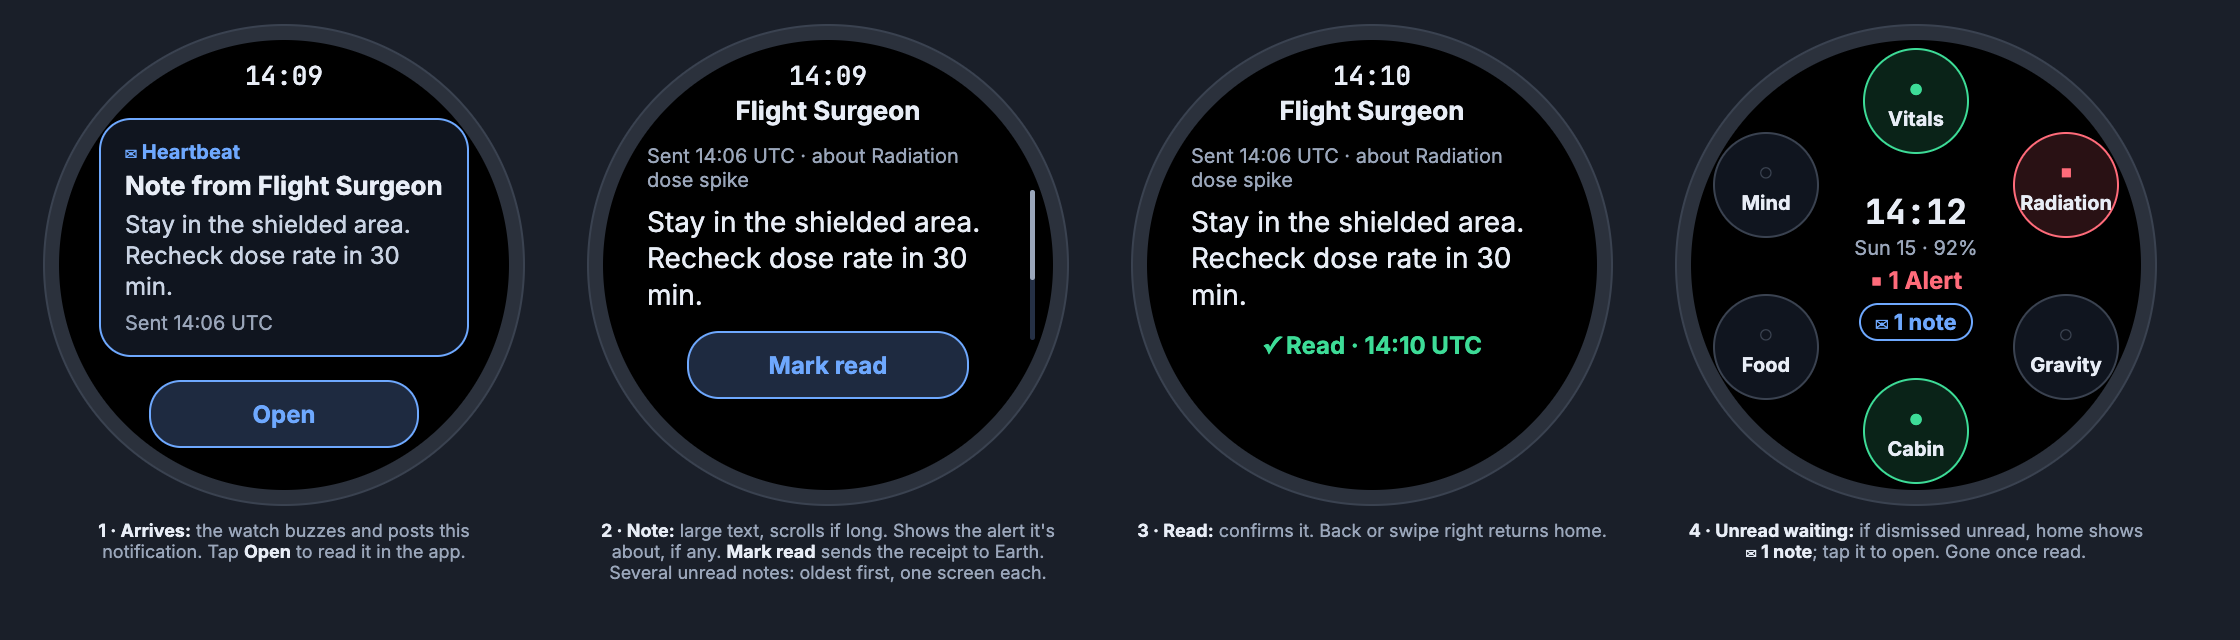
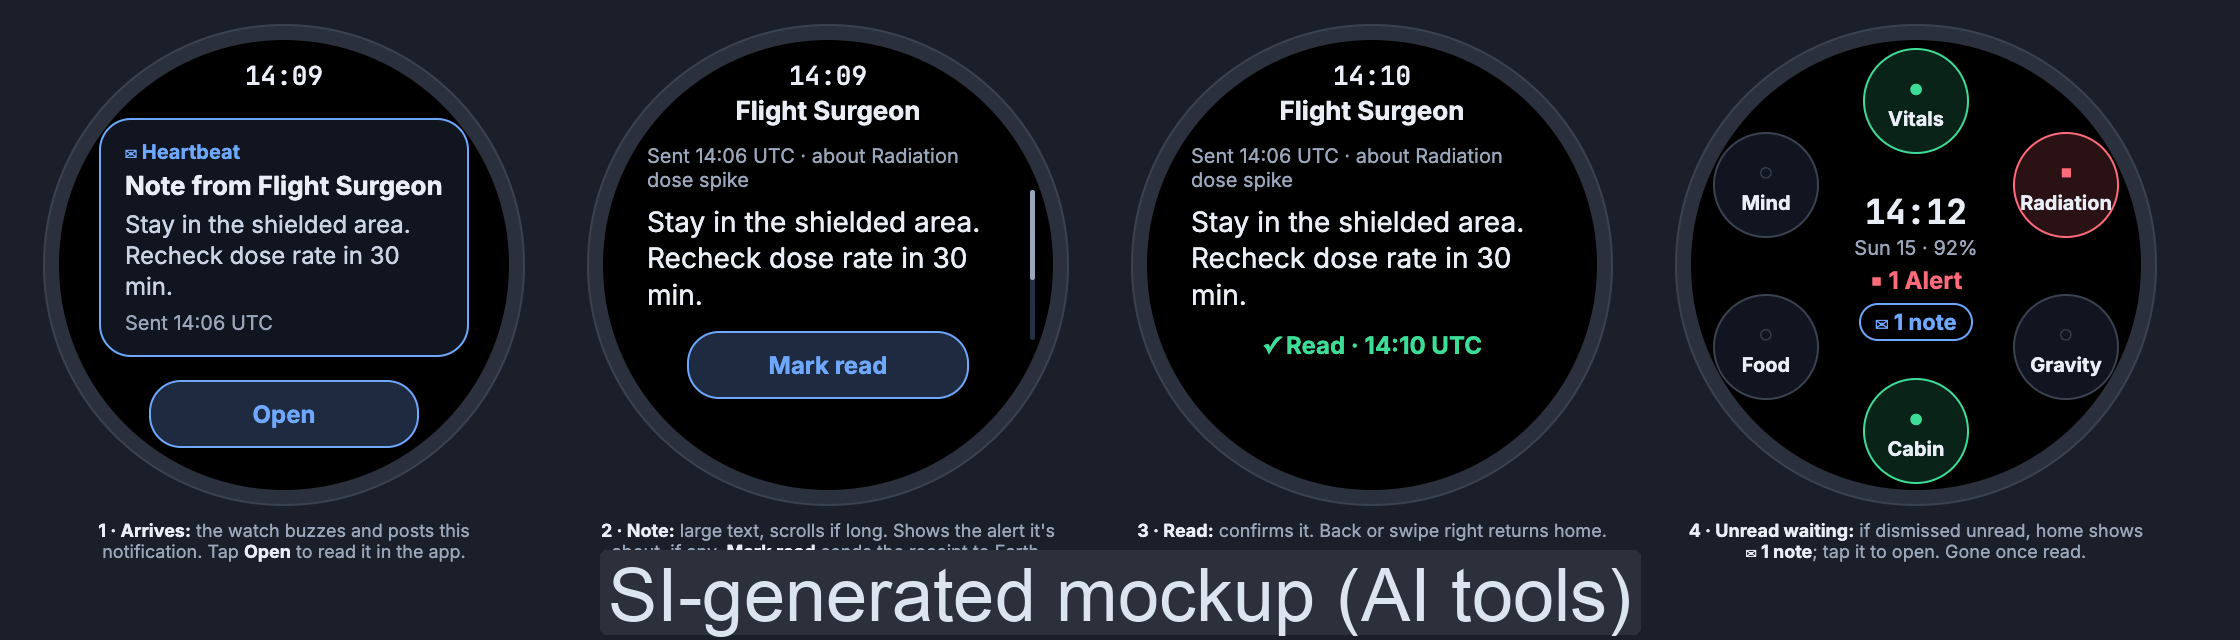
Label AI-made images and update the demo link

Changed region(s): [[0.25, 0.8438, 0.75, 1.0]]

diff --git a/README.md b/README.md
@@ -6,7 +6,7 @@ Built for the [NASA Space Apps Challenge 2026](https://www.spaceappschallenge.or
 
 **Team:** Campbell Reed, Ethan Buckner, Patience Akpor (Muncie, Indiana)
 
-**Demo deck (7 slides, PDF):** https://drive.google.com/file/d/1qYV-LCKxB3HSJIN8XYBBUSEX_k2bZraa/view
+**Demo deck (7 slides, PDF):** https://drive.google.com/file/d/12hF5W8um5BSZ_A9hft5Yeh72-rJLs_EM/view
 
 ## What it does
 
@@ -93,7 +93,7 @@ Full citations, with page numbers for every rule, are in [`SPEC.md` §14](SPEC.m
 
 ## Use of AI tools
 
-The team designed the project and made every product decision. The code, tests and documentation were written with the help of an AI coding assistant (Anthropic's Claude), working from the team's written spec, and every change was reviewed and tested before it was merged. No images or audio in the project are AI-generated. Astronaut 1's watch history is synthetic sample data made by a seeded script. The demo screenshots are captures of the running app and the watch.
+The team designed the project and made every product decision. The code, tests and documentation were written with the help of an AI coding assistant (Anthropic's Claude), working from the team's written spec, and every change was reviewed and tested before it was merged. The design mockups in `mockups/` were generated with AI tools and are labeled there, and the demo slides that combine app screenshots carry a visible "SI-assisted image" watermark. No audio is AI-generated. Astronaut 1's watch history is synthetic sample data made by a seeded script. The demo screenshots are captures of the running app and the watch.
 
 ## License
 

diff --git a/mockups/README.md b/mockups/README.md
@@ -1,0 +1,3 @@
+# Design mockups
+
+These are the design mockups the app's screens were built from. **They were generated with SI (AI) tools** (an AI design assistant, working from the team's descriptions) and then reviewed and approved by the team. The `.html` files are the mockups themselves; `watch-notes-large.png` is a rendered picture of one and carries a visible "SI-generated" watermark.
